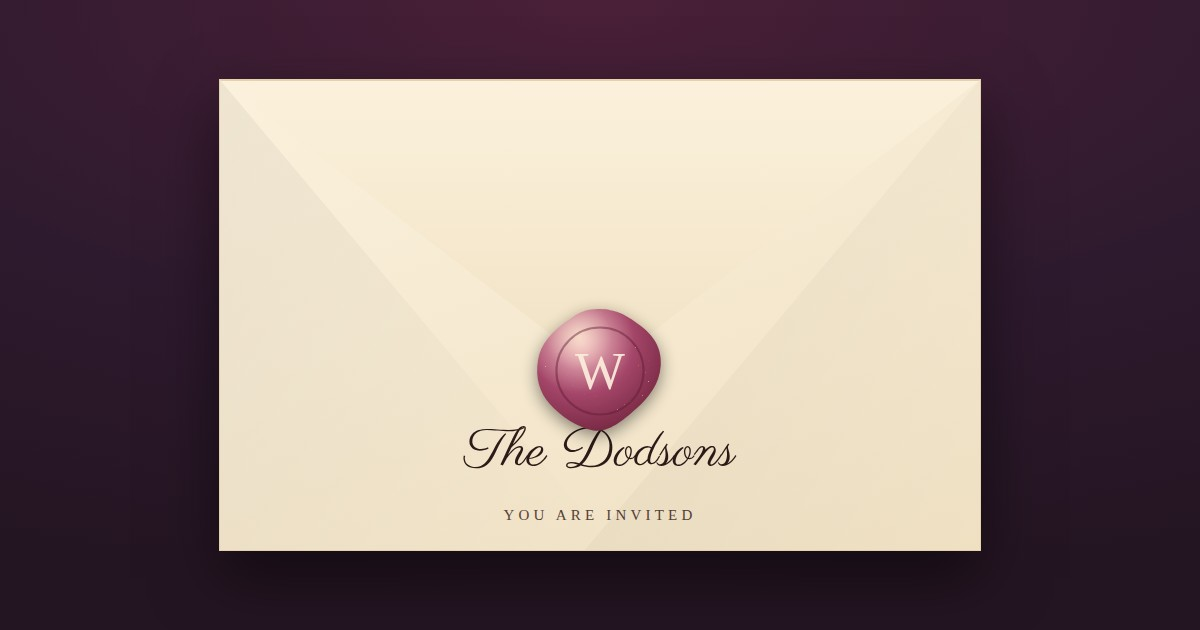
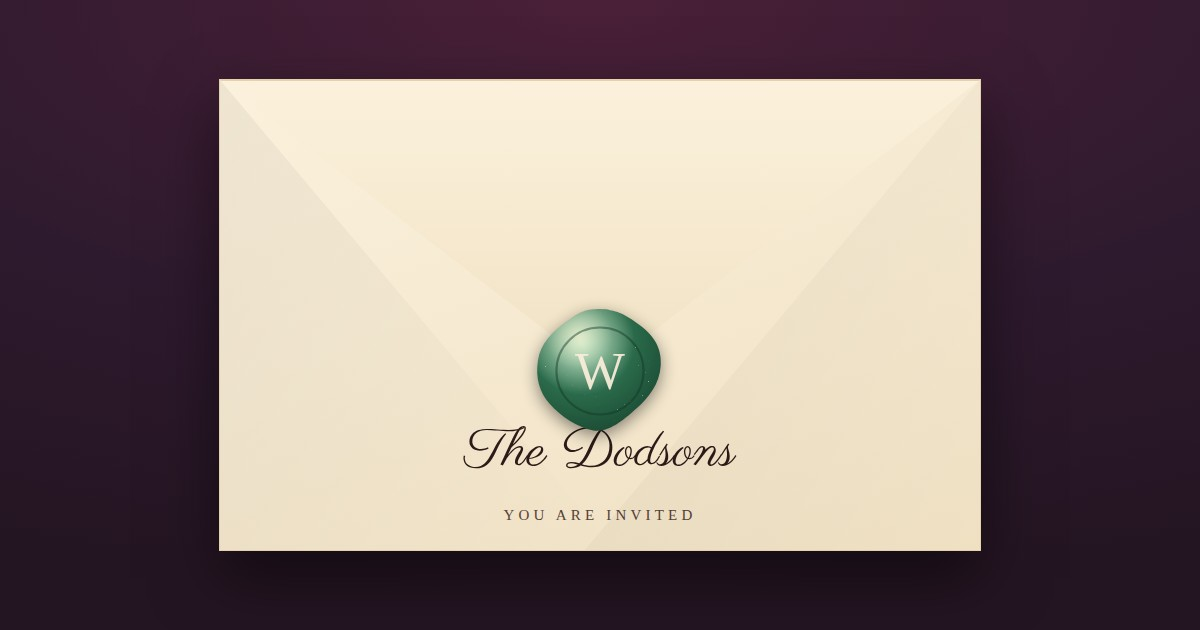
Ivy seals for the groom's sisters, and answer HEAD so previews unfurl
Amy and Ashley were sharing the bridesmaids' rose wax; they get their own
standing now — an ivy seal, ivy shards when it breaks, and a note written for
a sister rather than for the wedding party.

Two fixes found while testing it:

The "Card is addressed to" column in Special invites was splitting a household
name on /[\s,&]/ — except that regex lives inside the admin page's template
literal, where a lone \s collapses to a literal "s". "Carson Whitmore" split on
its own letters and the card read as addressed to "Car". Escaped twice, and the
column is asserted on now.

Link previews ask with HEAD before they fetch, and every route matched on GET
alone, so a HEAD for a card or a share image got a 404 and the unfurler dropped
the picture. HEAD is routed as GET now, headers and all, with no body.

Also: Alexia's daughter is Linsey, not Lindsay — name, card and share card.

Claude-Session: https://claude.ai/code/session_01CotQTYgamH4Wz8TbUkwj6a

Changed region(s): [[0.4317, 0.4825, 0.555, 0.6937]]

diff --git a/server.js b/server.js
@@ -148,9 +148,11 @@ const serveStatic = (req, res, filePath) => {
     }
     end = Math.min(end, size - 1);
     res.writeHead(206, { ...common, "Content-Range": `bytes ${start}-${end}/${size}`, "Content-Length": end - start + 1 });
+    if (req.method === "HEAD") return res.end();
     return fs.createReadStream(resolved, { start, end }).pipe(res);
   }
   res.writeHead(200, { ...common, "Content-Length": size });
+  if (req.method === "HEAD") return res.end();
   fs.createReadStream(resolved).pipe(res);
 };
 
@@ -486,10 +488,12 @@ var ROLES = {
   "maid-of-honor": { label: "Maid of honour",  wax: "Gold",   swatch: "#C79A2A" },
   "groom-mother":  { label: "Groom's mother",  wax: "Blue",   swatch: "#33608F" },
   "bride-parents": { label: "Bride's parents", wax: "Blue",   swatch: "#33608F" },
+  "groom-sister":  { label: "Groom's sisters", wax: "Ivy",    swatch: "#2A6A4A" },
   "groomsman":     { label: "Groomsman",       wax: "Silver", swatch: "#8C9298" },
   "bridesmaid":    { label: "Bridesmaid",      wax: "Rose",   swatch: "#A34568" }
 };
-var ROLE_ORDER = ["best-man", "maid-of-honor", "groom-mother", "bride-parents", "groomsman", "bridesmaid"];
+var ROLE_ORDER = ["best-man", "maid-of-honor", "groom-mother", "bride-parents",
+                  "groom-sister", "groomsman", "bridesmaid"];
 function linkFor(code) { return location.origin + "/?c=" + encodeURIComponent(code) + "#rsvp"; }
 function cardFor(code) { return location.origin + "/invite?c=" + encodeURIComponent(code); }
 // Everyone on an invitation, printed under the household name for accounting.
@@ -671,7 +675,10 @@ function renderSpecial() {
       byRole[k].length + "</span></h2><table><tr><th>Household</th><th>Card is addressed to</th>" +
       "<th>Seats</th><th>Password</th><th>Invitation link</th><th>Actions</th><th>Status</th></tr>" +
       byRole[k].map(function (g) {
-        var first = (g.members || [])[0] || String(g.name).split(/[\s,&]/)[0];
+        // Escaped twice: this whole page is a template literal, and a lone \\s in
+        // one collapses to a literal "s" — which split "Carson Whitmore" on its
+        // own letters and addressed the card to "Car".
+        var first = (g.members || [])[0] || String(g.name).split(/[\\s,&]/)[0];
         var status = !g.replied ? "<span class=muted>no reply</span>"
           : g.events === "none" ? "<span class=muted>cannot attend</span>"
           : "<b>" + (EVENTS[g.events] || esc(g.events)) + "</b>";
@@ -832,18 +839,24 @@ export const createApp = (store) => {
 const guard = makeGuard();
 return http.createServer(async (req, res) => {
   const url = new URL(req.url, "http://localhost");
+  // A link preview asks with HEAD before it fetches anything — Slack, WhatsApp
+  // and Facebook all do it to check the type and size first. Answering 404
+  // makes the unfurler decide the picture isn't there and drop it, so a HEAD is
+  // routed exactly like a GET. Node suppresses the body for us.
+  const method = req.method === "HEAD" ? "GET" : req.method;
   const send = (status, body, type = "application/json", extra = {}) => {
     res.writeHead(status, { "Content-Type": type, ...extra });
+    if (req.method === "HEAD") return res.end();
     res.end(type === "application/json" ? JSON.stringify(body) : body);
   };
   try {
-    if (req.method === "GET" && (url.pathname === "/" || url.pathname === "/index.html")) {
+    if (method === "GET" && (url.pathname === "/" || url.pathname === "/index.html")) {
       return send(200, fs.readFileSync(path.join(__dirname, "site", "index.html")),
         "text/html; charset=utf-8", { "Cache-Control": "no-cache" });
     }
     // The invitation card — an envelope with the household's name on it that
     // opens onto their own card. The page reads ?c= and unlocks like any guest.
-    if (req.method === "GET" && (url.pathname === "/invite" || url.pathname === "/invite.html")) {
+    if (method === "GET" && (url.pathname === "/invite" || url.pathname === "/invite.html")) {
       let html = fs.readFileSync(path.join(__dirname, "site", "invite.html"), "utf8");
       // A link preview shows this household's own sealed envelope, when one has
       // been rendered for them. Chat apps read these tags and nothing else, so
@@ -879,16 +892,16 @@ return http.createServer(async (req, res) => {
       return send(200, { ok: true, guests: byCode.size, storage: store.kind, durable: store.durable });
     }
 
-    if (req.method === "GET" && url.pathname.startsWith("/assets/")) {
+    if (method === "GET" && url.pathname.startsWith("/assets/")) {
       return serveStatic(req, res, path.join(__dirname, "site", url.pathname));
     }
-    if (req.method === "GET" && url.pathname === "/favicon.ico") {
+    if (method === "GET" && url.pathname === "/favicon.ico") {
       return serveStatic(req, res, path.join(ASSETS_DIR, "favicon-32.png"));
     }
 
     // Unlock: exchange an invitation password for the guest's name, seat count,
     // the events they may answer for, and any RSVP they already sent.
-    if (req.method === "POST" && url.pathname === "/api/unlock") {
+    if (method === "POST" && url.pathname === "/api/unlock") {
       const ip = clientIp(req);
       const wait = guard.lockedOut(ip);
       if (wait) {
@@ -916,7 +929,7 @@ return http.createServer(async (req, res) => {
       }, "application/json", { "Cache-Control": "no-store" });
     }
 
-    if (req.method === "POST" && url.pathname === "/api/rsvp") {
+    if (method === "POST" && url.pathname === "/api/rsvp") {
       const b = JSON.parse((await readBody(req)) || "{}");
       const guest = byCode.get(norm(b.code));
       if (!guest) return send(404, { error: "unknown code" });
@@ -930,7 +943,7 @@ return http.createServer(async (req, res) => {
       return send(200, { ok: true, rsvp: entry }, "application/json", { "Cache-Control": "no-store" });
     }
 
-    if (req.method === "GET" && (url.pathname === "/api/rsvps" || url.pathname === "/api/rsvps.csv")) {
+    if (method === "GET" && (url.pathname === "/api/rsvps" || url.pathname === "/api/rsvps.csv")) {
       if (!authorized(req)) return send(401, { error: "unauthorized" });
       const all = await store.all();
       // Test invitations are listed but never counted, so trying the form out
@@ -960,7 +973,7 @@ return http.createServer(async (req, res) => {
 
     // Every invitation, with whether it has been answered — the admin page turns
     // these into personal links using its own origin, so they're always right.
-    if (req.method === "GET" && url.pathname === "/api/guests") {
+    if (method === "GET" && url.pathname === "/api/guests") {
       if (!authorized(req)) return send(401, { error: "unauthorized" });
       const all = await store.all();
       const guests = [...byCode.values()]
@@ -978,7 +991,7 @@ return http.createServer(async (req, res) => {
     // Upload a spreadsheet. Two steps on purpose: the first call reports what
     // would change, the second applies it. Nothing is written without the
     // second call, so a wrong file can't quietly rewrite the guest list.
-    if (req.method === "POST" && url.pathname === "/api/guests/import") {
+    if (method === "POST" && url.pathname === "/api/guests/import") {
       if (!authorized(req)) return send(401, { error: "unauthorized" });
       const b = JSON.parse((await readBody(req, UPLOAD_BODY)) || "{}");
       let parsed;
@@ -1021,7 +1034,7 @@ return http.createServer(async (req, res) => {
       return send(200, { ...preview, applied: true });
     }
 
-    if (req.method === "GET" && url.pathname === "/admin") {
+    if (method === "GET" && url.pathname === "/admin") {
       return send(200, ADMIN_HTML, "text/html; charset=utf-8", { "X-Robots-Tag": "noindex" });
     }
 

diff --git a/site/invite.html b/site/invite.html
@@ -107,7 +107,7 @@
     color: var(--ink);
     z-index: 2;
   }
-  /* Households are named things like "Alexia, David, Sebastian & Lindsay" —
+  /* Households are named things like "Alexia, David, Sebastian & Linsey" —
      a script face at full size would run off the paper. */
   .env-to.long { font-size: clamp(1.1rem, 3.6vw, 1.7rem); }
   .env-hint {
@@ -177,6 +177,7 @@
   .card > *:not(.sparkles) { position: relative; z-index: 1; }
   .card.role-gold .sparkles { color: #C79A2A; }
   .card.role-blue .sparkles { color: #4C7CAE; }
+  .card.role-ivy .sparkles { color: #3E8A62; }
   .card.role-silver .sparkles { color: #9AA1A8; }
   .card.role-rose .sparkles { color: #B9647F; }
   @media (prefers-reduced-motion: reduce) {
@@ -194,6 +195,8 @@
   .card.role-rose::after { border-color: rgba(163, 69, 104, 0.5); }
   .card.role-rose .ask { color: #742640; }     /* 8.4:1 on the vellum card */
   .card.role-blue .ask { color: #1E3F62; }     /* 9.1:1 on the vellum card */
+  .card.role-ivy .ask { color: #1B4A33; }      /* 8.5:1 on the vellum card */
+  .card.role-ivy::after { border-color: rgba(42, 106, 74, 0.5); }
   .card.role-blue::after { border-color: rgba(51, 96, 143, 0.5); }
   /* The parents' cards are a thank-you, so their line is given more room. */
   .card.role-blue .ask { font-size: clamp(1.1rem, 3.6vw, 1.4rem); max-width: 28rem; }
@@ -399,6 +402,11 @@
           <stop offset="55%" stop-color="#33608F"/>
           <stop offset="100%" stop-color="#1A3654"/>
         </radialGradient>
+        <radialGradient id="ivy" cx="38%" cy="32%" r="72%">
+          <stop offset="0%" stop-color="#7FC49B"/>
+          <stop offset="55%" stop-color="#2A6A4A"/>
+          <stop offset="100%" stop-color="#1B4A33"/>
+        </radialGradient>
         <radialGradient id="rose" cx="38%" cy="32%" r="72%">
           <stop offset="0%" stop-color="#D98098"/>
           <stop offset="55%" stop-color="#A34568"/>
@@ -512,6 +520,16 @@
             "every single day of it.";
         }
       },
+      // Zachary's sisters — not bridesmaids, and their own wax to say so.
+      "groom-sister": {
+        seal: "url(#ivy)", ring: "#123524", tone: "ivy",
+        shades: ["#8FCFA8", "#2A6A4A", "#1B4A33"],
+        ask: function (n) {
+          return n + " — you have had a front-row seat to every version of me, " +
+            "including the ones I would rather forget, and you never once looked " +
+            "away. I'd be honoured to have my sister standing there when I do this.";
+        }
+      },
       // Sharon's ask, so it is written in her voice rather than Zachary's.
       "bridesmaid": {
         seal: "url(#rose)", ring: "#5E1B30", tone: "rose",
@@ -527,7 +545,7 @@
     var wax = document.getElementById("seal-wax");
     var ring = document.getElementById("seal-ring");
     var cardEl = document.querySelector(".card");
-    cardEl.classList.remove("role-gold", "role-silver", "role-rose", "role-blue");
+    cardEl.classList.remove("role-gold", "role-silver", "role-rose", "role-blue", "role-ivy");
     if (role) {
       if (wax) wax.setAttribute("fill", role.seal);
       if (ring) ring.setAttribute("stroke", role.ring);
